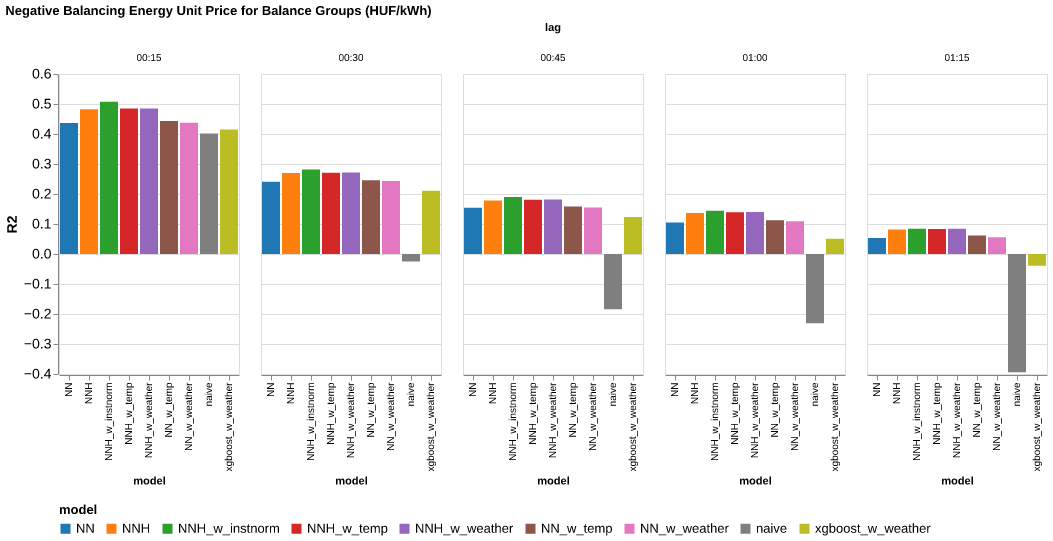
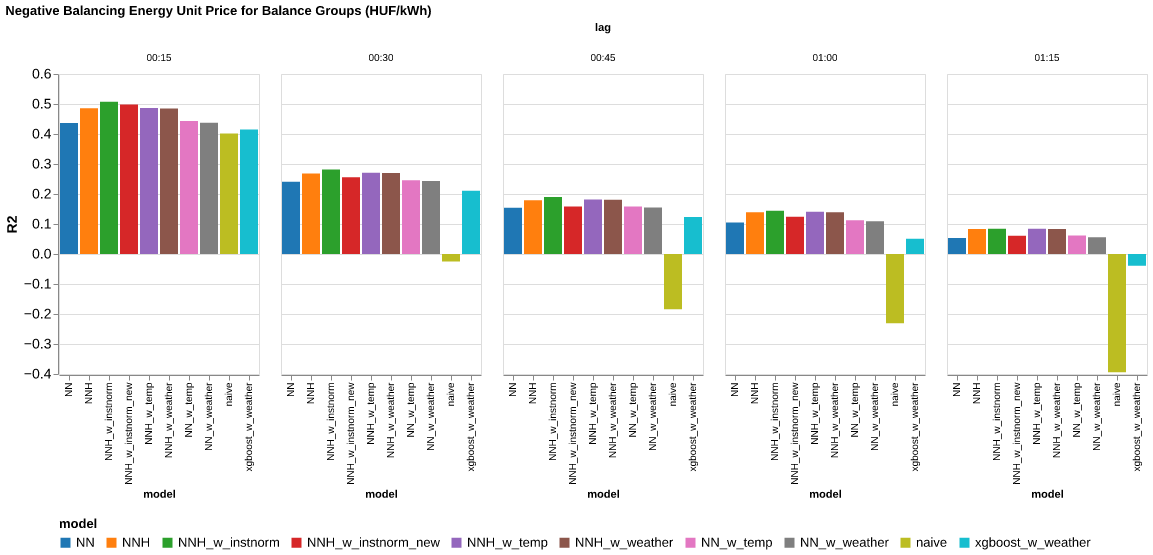
cleaned up results and figures

diff --git a/plot_results.py b/plot_results.py
@@ -82,10 +82,11 @@ results = {
     "NN": unpivot_errors(pl.read_csv("model_results/NN_100_seeds_joined_df.csv")),
     "NN_w_temp": unpivot_errors(pl.read_csv("model_results/NN_100_seeds_joined_df_with_temp.csv")),
     "NN_w_weather": unpivot_errors(pl.read_csv("model_results/NN_100_seeds_joined_df_with_weather.csv")),
-    "NNH": unpivot_errors(pl.read_csv("model_results/NN_100_seeds_Huber_joined_df.csv")),
-    "NNH_w_temp": unpivot_errors(pl.read_csv("model_results/NN_100_seeds_Huber_joined_df_with_temp.csv")),
-    "NNH_w_weather": unpivot_errors(pl.read_csv("model_results/NN_100_seeds_Huber_joined_df_with_weather.csv")),
+    "NNH": unpivot_errors(pl.read_csv("model_results/NN_100_seeds_Huber_joined_df_12-1.csv")),
+    "NNH_w_temp": unpivot_errors(pl.read_csv("model_results/NN_100_seeds_Huber_joined_df_with_temp_12-1.csv")),
+    "NNH_w_weather": unpivot_errors(pl.read_csv("model_results/NN_100_seeds_Huber_joined_df_with_weather_12-1.csv")),
     "NNH_w_instnorm": unpivot_errors(pl.read_csv("model_results/NN_100_seeds_Huber_instance_norm_joined_df_with_weather_11-4.csv")),
+    "NNH_w_instnorm_new": unpivot_errors(pl.read_csv("model_results/NN_1_seeds_Huber_instance_norm_joined_df_with_weather_11-27.csv")),
     "naive": unpivot_errors(pl.read_csv("model_results/naive_model.csv")),
 }
 compare_results(results)
